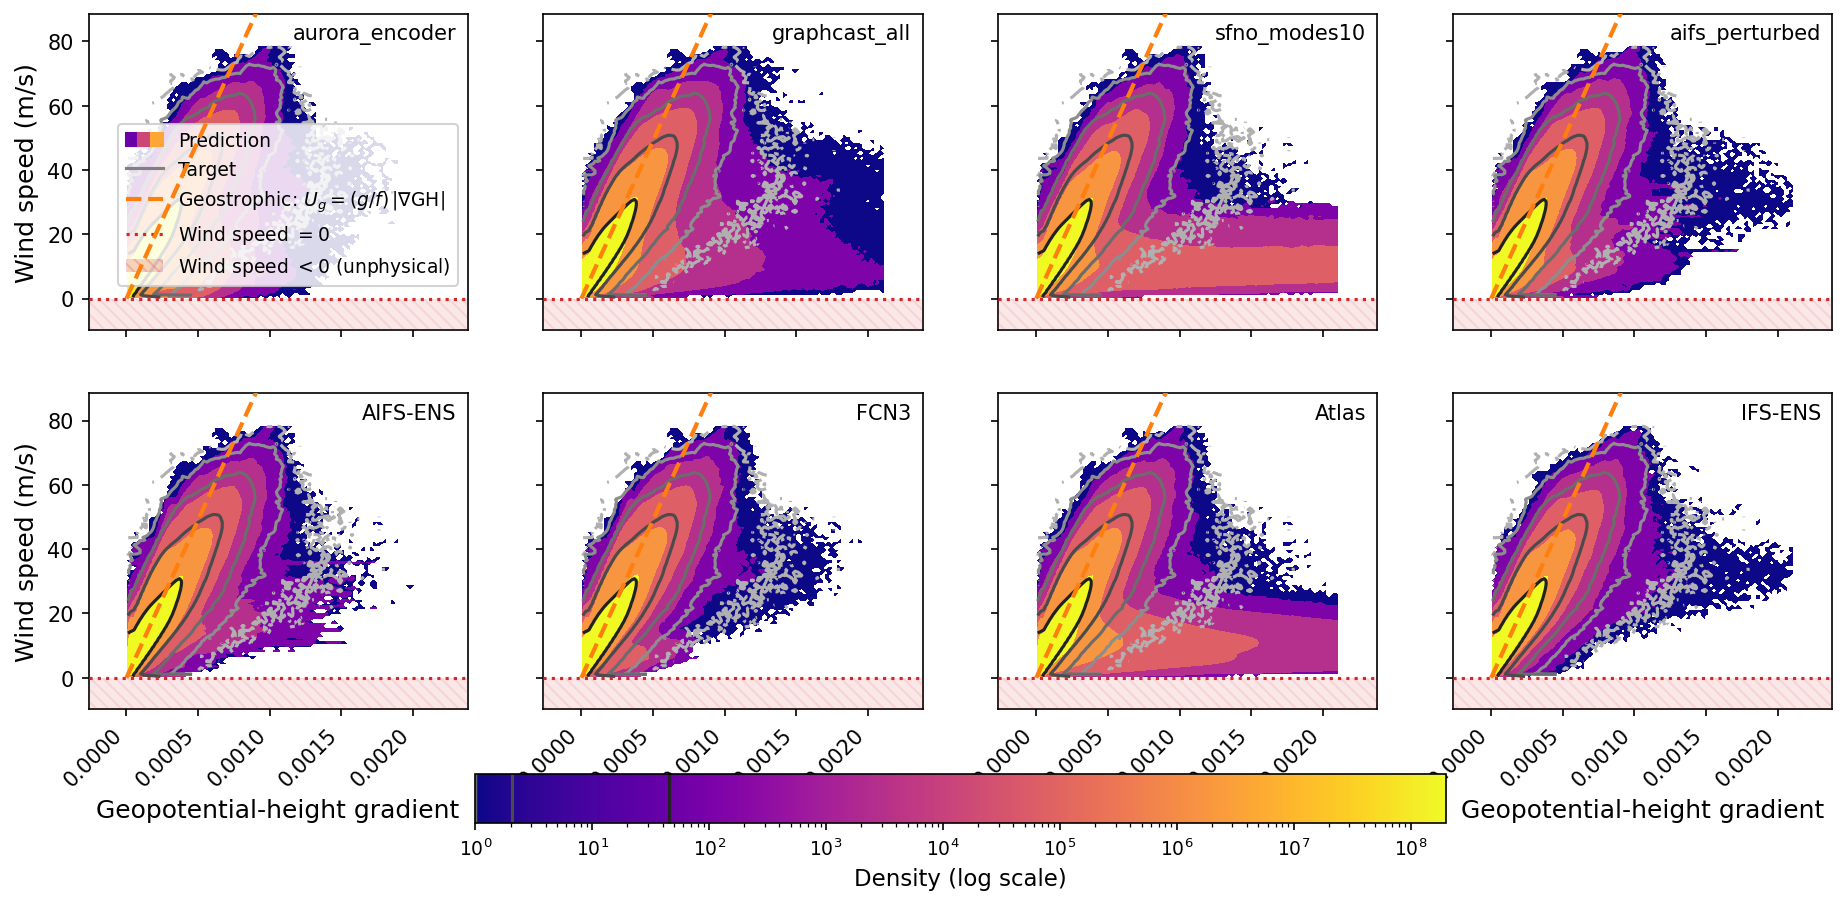
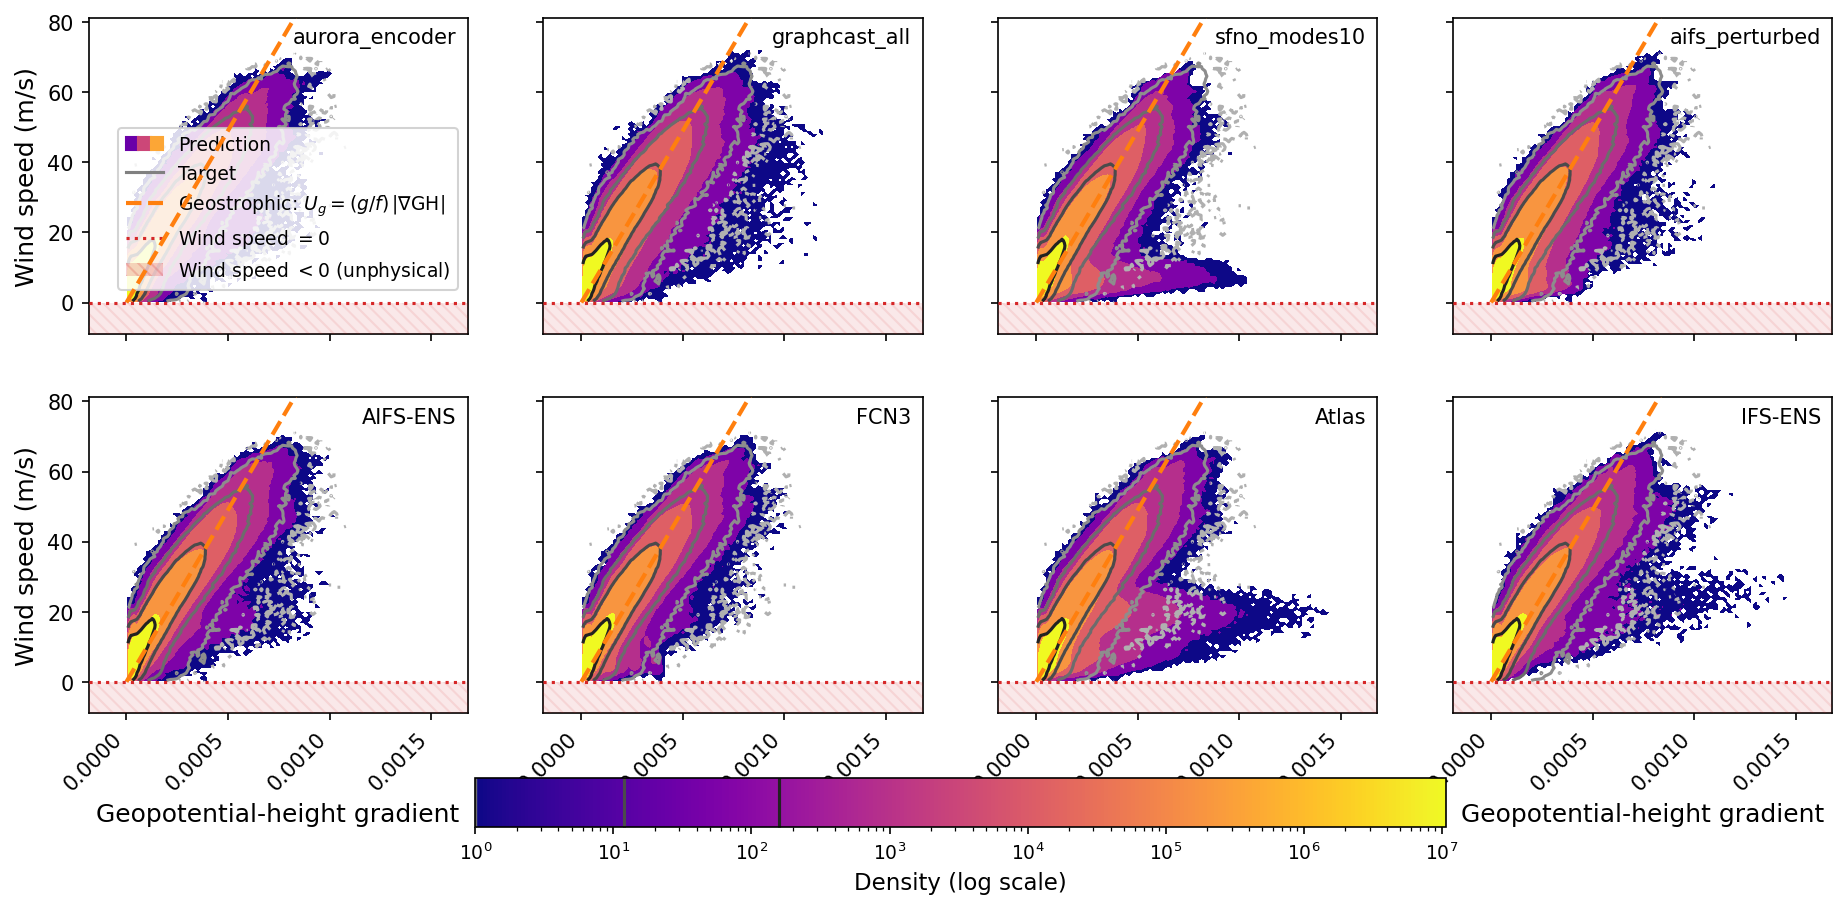
Fig C2: regenerate geostrophic bivariate over the Milton domain
plot_bivariate.py geostrophic figure now reads the Milton-domain npz
(eval_milton/, job 2570003, lon 240-300E / lat 5-40N) instead of global;
the Tq figure stays global. Geostrophic balance is more cleanly defined
over a synoptic region than the full globe.

diff --git a/tools/plot_bivariate.py b/tools/plot_bivariate.py
@@ -47,16 +47,16 @@ PANELS = [
 ]
 
 
-def find(b: str, pattern: str) -> str:
-    g = glob.glob(f"{BASE}/{b}/eval/multivariate/*{pattern}*level500*.npz")
+def find(b: str, pattern: str, eval_dir: str = "eval") -> str:
+    g = glob.glob(f"{BASE}/{b}/{eval_dir}/multivariate/*{pattern}*level500*.npz")
     return g[0] if g else ""
 
 
-def make(pattern, out, xlabel, ylabel):
+def make(pattern, out, xlabel, ylabel, eval_dir="eval"):
     # Collect the available baselines and their cached histograms.
     entries = []
     for b, lab in PANELS:
-        f = find(b, pattern)
+        f = find(b, pattern, eval_dir)
         if not f:
             continue
         d = np.load(f, allow_pickle=True)
@@ -197,6 +197,7 @@ def main() -> None:
         "bivariate_geostrophic_500hPa",
         "Geopotential-height gradient",
         "Wind speed (m/s)",
+        eval_dir="eval_milton",
     )
 
 